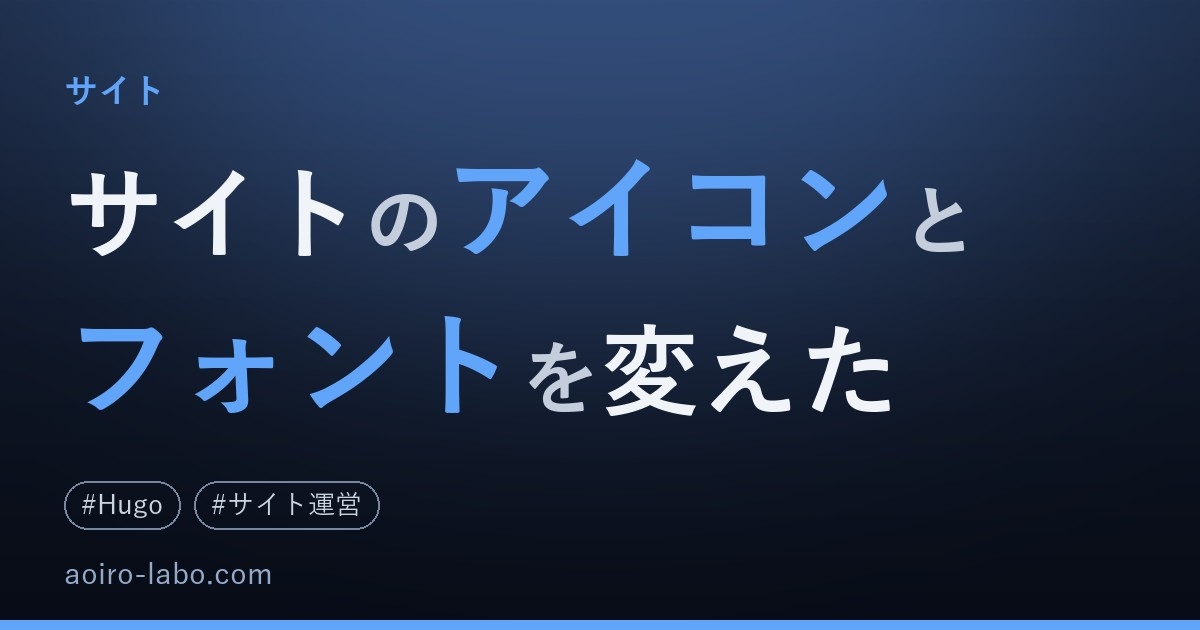
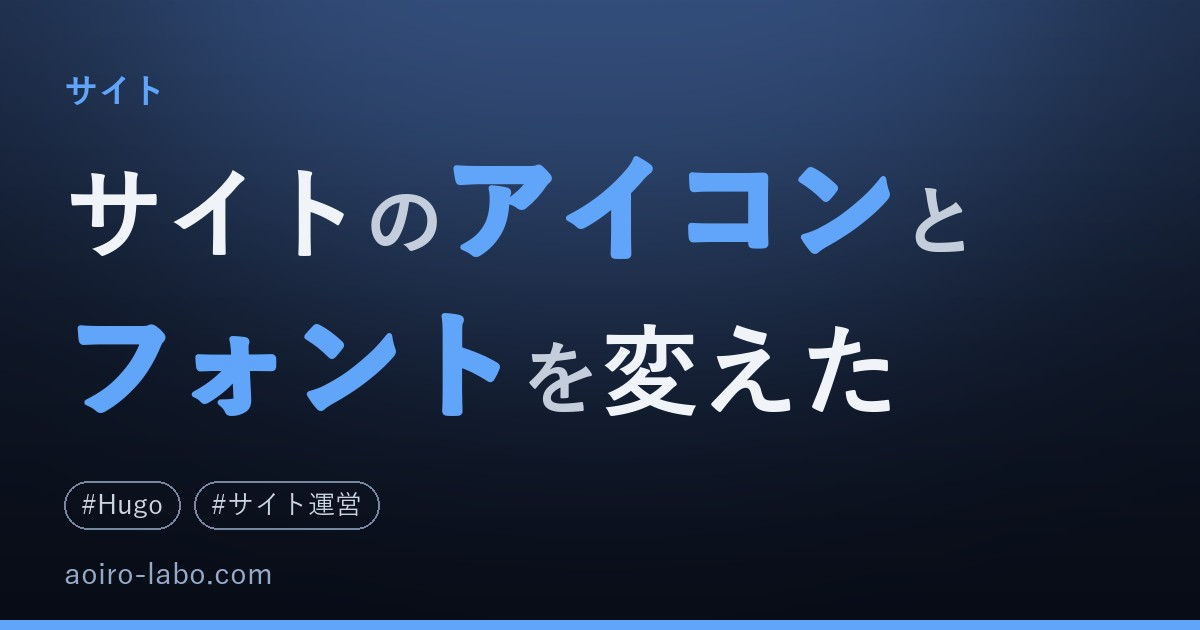
カバー生成：強調（accent）の文字を太く

diff --git a/tools/generate_cover.py b/tools/generate_cover.py
@@ -246,7 +246,8 @@ def draw_lines(d, items, lines, widths, x0, y_top, size, acc, heights):
         for pos,(text, cls, glue) in enumerate(ln):
             fnt,col=style_of(cls, size, acc)
             if not (text=='：' and pos==len(ln)-1):
-                d.text((x, baseline), text, font=fnt, fill=col, anchor='ls')
+                sw = max(1, int(size*0.03)) if cls=='accent' else 0
+                d.text((x, baseline), text, font=fnt, fill=col, anchor='ls', stroke_width=sw, stroke_fill=col)
             x+=widths[idx]; idx+=1
         y+=heights[li]
     return y
